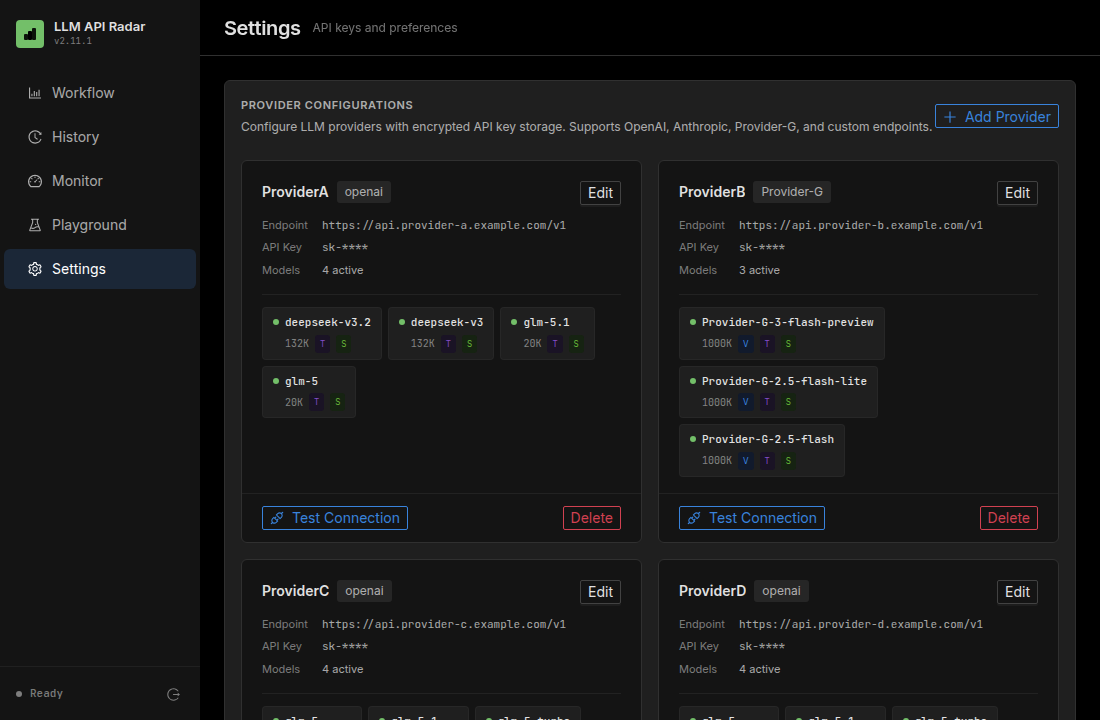
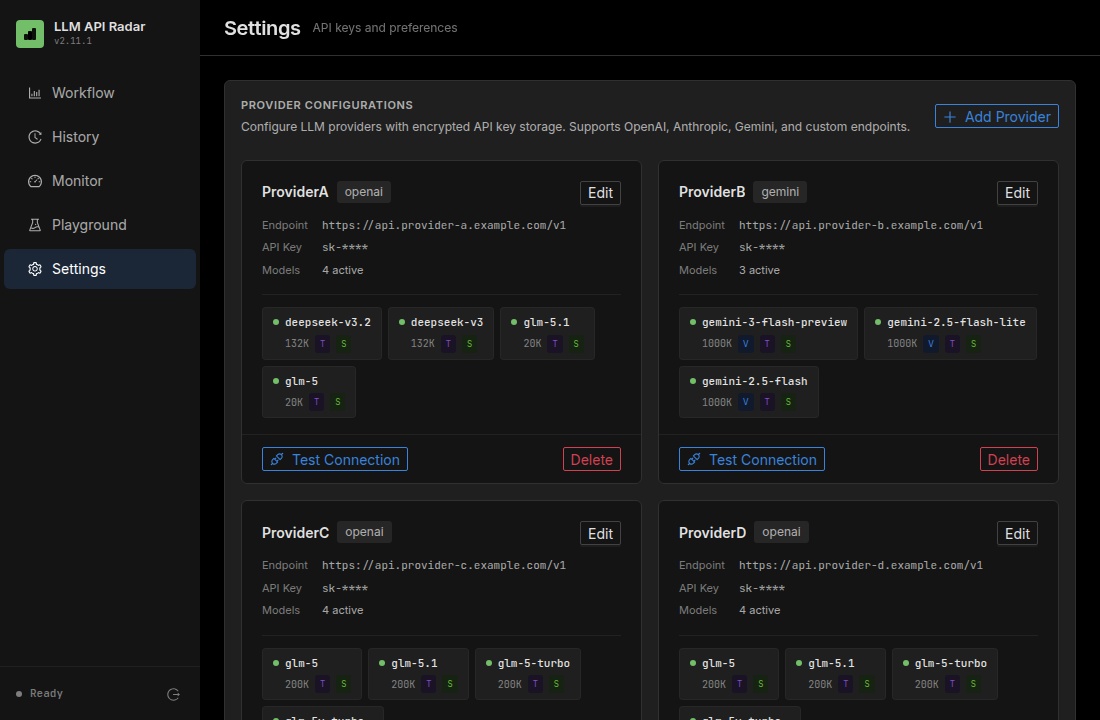
feat(demo): mask vendor-prefixed model names and workflow summaries
- demo.ts: add maskModelName() so vendor prefixes (e.g. z-ai/glm-4.7)
  render as ProviderX/glm-4.7, sharing the provider letter namespace via
  a `vendor:` key prefix on the shared idToIndex map (no collisions).
- demo.ts: add maskProviderSummaries() and expand maskProviderConfig()
  to mask models[].name / displayName.
- hooks: apply masking at the fetch boundary in useWorkflow (summary),
  useMonitor, usePlaygroundHistory so raw vendor strings never reach
  the DOM. Fixes the "Cloud-A" leak that previously relied on the
  legacy regex redactor.
- redact-sensitive.mjs: deprecate — empty rule tables; demo.ts is now
  the single source of truth. Kept only as a no-op safety net for
  existing callers.
- regenerate 6 README screenshots + demo.gif under VITE_DEMO_MODE=true.

diff --git a/frontend/src/utils/demo.ts b/frontend/src/utils/demo.ts
@@ -6,6 +6,8 @@
  *   - Provider names become `ProviderA`, `ProviderB`, ...
  *   - Endpoints become `https://api.provider-a.example.com/v1`
  *   - API keys become `sk-****`
+ *   - Model name vendor prefixes (`z-ai/glm-4.7`) become `ProviderX/glm-4.7`
+ *     (vendor strings share the same letter namespace as provider ids)
  *
  * Mapping is stable per `id` for the lifetime of the page (first-seen order).
  * Excel-style letter sequence supports unlimited providers (A..Z, AA..AZ, ...).
@@ -14,6 +16,8 @@
 export const DEMO_MODE: boolean = import.meta.env.VITE_DEMO_MODE === 'true';
 
 // First-seen order map — stable within a session.
+// Provider UUIDs and vendor strings share the same letter namespace so they
+// render with a single, consistent `Provider<L>` style across the UI.
 const idToIndex = new Map<string, number>();
 
 function getIndex(id: string): number {
@@ -55,15 +59,26 @@ export function maskApiKey(_keyMasked: string): string {
 }
 
 /** Mask a full ProviderConfigResponse-shaped object. */
-export function maskProviderConfig<T extends { id: string; name: string; endpoint: string; apiKeyMasked: string }>(
-  p: T,
-): T {
+export function maskProviderConfig<
+  T extends {
+    id: string;
+    name: string;
+    endpoint: string;
+    apiKeyMasked: string;
+    models?: Array<{ name: string; displayName?: string } & Record<string, unknown>>;
+  },
+>(p: T): T {
   if (!DEMO_MODE) return p;
   return {
     ...p,
     name: maskProviderName(p.name, p.id),
     endpoint: maskEndpoint(p.endpoint, p.id),
     apiKeyMasked: maskApiKey(p.apiKeyMasked),
+    models: p.models?.map((m) => ({
+      ...m,
+      name: maskModelName(m.name),
+      displayName: m.displayName ? maskModelName(m.displayName) : m.displayName,
+    })),
   };
 }
 
@@ -76,6 +91,23 @@ export function maskProviderNameById(name: string, id: string): string {
 }
 
 /**
+ * Mask a model name that may contain a vendor prefix (e.g., `z-ai/glm-4.7`).
+ * Plain model names without `/` are returned unchanged — the model id itself
+ * is not considered sensitive. Only the vendor portion is replaced with a
+ * `ProviderX` placeholder (sharing the same letter namespace as real provider
+ * ids), so `z-ai/glm-4.7` reads as e.g. `ProviderG/glm-4.7`.
+ */
+export function maskModelName(model: string): string {
+  if (!DEMO_MODE || !model) return model;
+  const slash = model.indexOf('/');
+  if (slash <= 0) return model;
+  const vendor = model.slice(0, slash);
+  const rest = model.slice(slash); // keeps the leading "/"
+  const letter = toLetters(getIndex(`vendor:${vendor.toLowerCase()}`));
+  return `Provider${letter}${rest}`;
+}
+
+/**
  * Mask a `providerLabels` map: { providerKey -> displayLabel }.
  * providerKey is `configId:modelName`; we mask only the configId portion.
  */
@@ -85,7 +117,29 @@ export function maskProviderLabels(labels?: Record<string, string>): Record<stri
   for (const [key, label] of Object.entries(labels)) {
     const [configId, modelName] = key.includes(':') ? key.split(':', 2) : [key, ''];
     const maskedName = maskProviderName(label.split('/')[0]?.trim() || label, configId);
-    out[key] = modelName ? `${maskedName} / ${modelName}` : maskedName;
+    const maskedModel = modelName ? maskModelName(modelName) : '';
+    out[key] = maskedModel ? `${maskedName} / ${maskedModel}` : maskedName;
+  }
+  return out;
+}
+
+/**
+ * Mask a `providerSummaries` map: { providerKey -> { provider, model, ... } }.
+ * providerKey is `configId:modelName`; provider name is masked by configId,
+ * and model is run through maskModelName.
+ */
+export function maskProviderSummaries<V extends { provider: string; model: string }>(
+  summaries?: Record<string, V>,
+): Record<string, V> | undefined {
+  if (!DEMO_MODE || !summaries) return summaries;
+  const out: Record<string, V> = {};
+  for (const [key, ps] of Object.entries(summaries)) {
+    const configId = key.includes(':') ? key.split(':', 2)[0] : key;
+    out[key] = {
+      ...ps,
+      provider: maskProviderName(ps.provider, configId),
+      model: maskModelName(ps.model),
+    };
   }
   return out;
 }

diff --git a/frontend/src/hooks/useMonitor.ts b/frontend/src/hooks/useMonitor.ts
@@ -1,6 +1,6 @@
 import { useState, useCallback } from 'react';
 import { apiFetch } from '../services/api';
-import { maskProviderName } from '../utils/demo';
+import { maskProviderName, maskModelName } from '../utils/demo';
 
 export interface PingResult {
   id: number;
@@ -51,7 +51,13 @@ export function useMonitor() {
     try {
       const res = await apiFetch('/api/monitor/status');
       const data = (await res.json()) as PingResult[];
-      setStatuses(data.map((s) => ({ ...s, providerName: maskProviderName(s.providerName, s.providerId) })));
+      setStatuses(
+        data.map((s) => ({
+          ...s,
+          providerName: maskProviderName(s.providerName, s.providerId),
+          modelName: maskModelName(s.modelName),
+        })),
+      );
     } catch {
       /* ignore */
     }
@@ -61,7 +67,13 @@ export function useMonitor() {
     try {
       const res = await apiFetch(`/api/monitor/history?hours=${hours}`);
       const data = (await res.json()) as PingResult[];
-      setHistory(data.map((s) => ({ ...s, providerName: maskProviderName(s.providerName, s.providerId) })));
+      setHistory(
+        data.map((s) => ({
+          ...s,
+          providerName: maskProviderName(s.providerName, s.providerId),
+          modelName: maskModelName(s.modelName),
+        })),
+      );
     } catch {
       /* ignore */
     }
@@ -71,7 +83,13 @@ export function useMonitor() {
     try {
       const res = await apiFetch('/api/monitor/targets');
       const data = (await res.json()) as MonitorTarget[];
-      setTargets(data.map((t) => ({ ...t, providerName: maskProviderName(t.providerName, t.providerId) })));
+      setTargets(
+        data.map((t) => ({
+          ...t,
+          providerName: maskProviderName(t.providerName, t.providerId),
+          modelName: maskModelName(t.modelName),
+        })),
+      );
     } catch {
       /* ignore */
     }
@@ -125,7 +143,14 @@ export function useMonitor() {
       const res = await apiFetch('/api/monitor/run', { method: 'POST' });
       const data = await res.json();
       if (data.success) {
-        setStatuses(data.results || []);
+        const results = (data.results || []) as PingResult[];
+        setStatuses(
+          results.map((s) => ({
+            ...s,
+            providerName: maskProviderName(s.providerName, s.providerId),
+            modelName: maskModelName(s.modelName),
+          })),
+        );
       }
       await fetchHistory(24);
     } catch {

diff --git a/frontend/src/hooks/usePlaygroundHistory.ts b/frontend/src/hooks/usePlaygroundHistory.ts
@@ -1,7 +1,7 @@
 import { useState, useCallback } from 'react';
 import { apiFetch } from '../services/api';
 import { PlaygroundMetrics } from './usePlayground';
-import { maskProviderName } from '../utils/demo';
+import { maskProviderName, maskModelName } from '../utils/demo';
 
 export interface PlaygroundHistoryItem {
   id: string;
@@ -41,7 +41,13 @@ export function usePlaygroundHistory() {
       const res = await apiFetch('/api/playground/history');
       if (res.ok) {
         const data = (await res.json()) as PlaygroundHistoryItem[];
-        setItems(data.map((it) => ({ ...it, providerName: maskProviderName(it.providerName, it.providerId) })));
+        setItems(
+          data.map((it) => ({
+            ...it,
+            providerName: maskProviderName(it.providerName, it.providerId),
+            modelName: maskModelName(it.modelName),
+          })),
+        );
       }
     } catch {
       /* ignore */
@@ -55,7 +61,11 @@ export function usePlaygroundHistory() {
       const res = await apiFetch(`/api/playground/history/${id}`);
       if (res.ok) {
         const detail = (await res.json()) as PlaygroundHistoryDetail;
-        return { ...detail, providerName: maskProviderName(detail.providerName, detail.providerId) };
+        return {
+          ...detail,
+          providerName: maskProviderName(detail.providerName, detail.providerId),
+          modelName: maskModelName(detail.modelName),
+        };
       }
     } catch {
       /* ignore */

diff --git a/frontend/src/utils/demo.test.ts b/frontend/src/utils/demo.test.ts
@@ -1,5 +1,5 @@
 import { describe, it, expect } from 'vitest';
-import { maskProviderName, maskEndpoint, maskApiKey, maskProviderConfig, DEMO_MODE } from './demo';
+import { maskProviderName, maskEndpoint, maskApiKey, maskProviderConfig, maskModelName, DEMO_MODE } from './demo';
 
 describe('demo utilities (passthrough when DEMO_MODE is off)', () => {
   it('DEMO_MODE flag reflects env', () => {
@@ -11,6 +11,13 @@ describe('demo utilities (passthrough when DEMO_MODE is off)', () => {
     expect(maskProviderName('OpenAI Production', 'id-1')).toBe('OpenAI Production');
     expect(maskEndpoint('https://api.openai.com/v1', 'id-1')).toBe('https://api.openai.com/v1');
     expect(maskApiKey('sk-abc***xyz')).toBe('sk-abc***xyz');
+  });
+
+  it('maskModelName is identity when disabled or no vendor prefix', () => {
+    if (DEMO_MODE) return;
+    expect(maskModelName('z-ai/glm-4.7')).toBe('z-ai/glm-4.7');
+    expect(maskModelName('glm-4.7')).toBe('glm-4.7');
+    expect(maskModelName('')).toBe('');
   });
 
   it('maskProviderConfig is a no-op shallow copy when disabled', () => {

diff --git a/frontend/src/hooks/useWorkflow.ts b/frontend/src/hooks/useWorkflow.ts
@@ -1,12 +1,22 @@
 import { useState, useCallback, useRef, useEffect } from 'react';
 import { BenchmarkWorkflow, WorkflowTemplate } from '../types';
 import { apiFetch, sseUrl, downloadUrl } from '../services/api';
-import { maskProviderLabels } from '../utils/demo';
+import { maskProviderLabels, maskProviderSummaries, DEMO_MODE } from '../utils/demo';
 
-const maskWorkflow = (w: BenchmarkWorkflow): BenchmarkWorkflow => ({
-  ...w,
-  providerLabels: maskProviderLabels(w.providerLabels),
-});
+const maskWorkflow = (w: BenchmarkWorkflow): BenchmarkWorkflow => {
+  if (!DEMO_MODE) return w;
+  const masked: BenchmarkWorkflow = {
+    ...w,
+    providerLabels: maskProviderLabels(w.providerLabels),
+  };
+  if (w.summary) {
+    masked.summary = {
+      ...w.summary,
+      providerSummaries: maskProviderSummaries(w.summary.providerSummaries) ?? w.summary.providerSummaries,
+    };
+  }
+  return masked;
+};
 
 /** Per-task iteration progress aggregated across all providers */
 export interface TaskIterationProgress {
